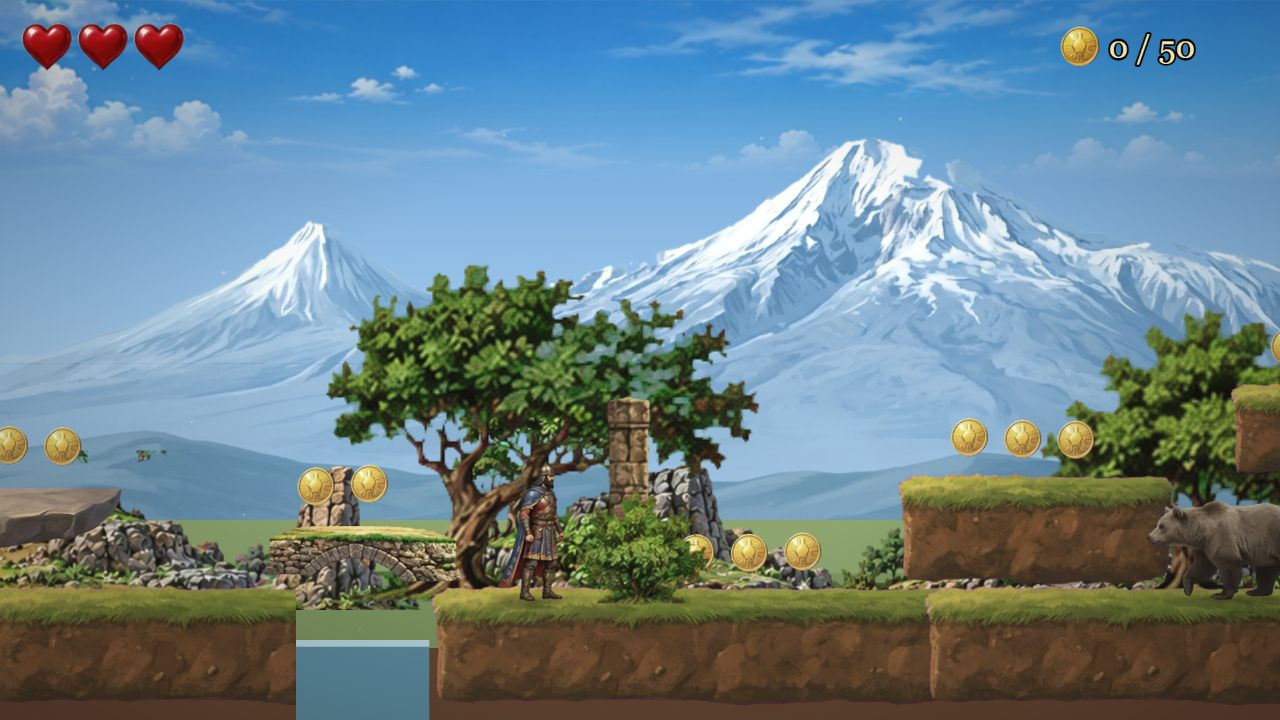
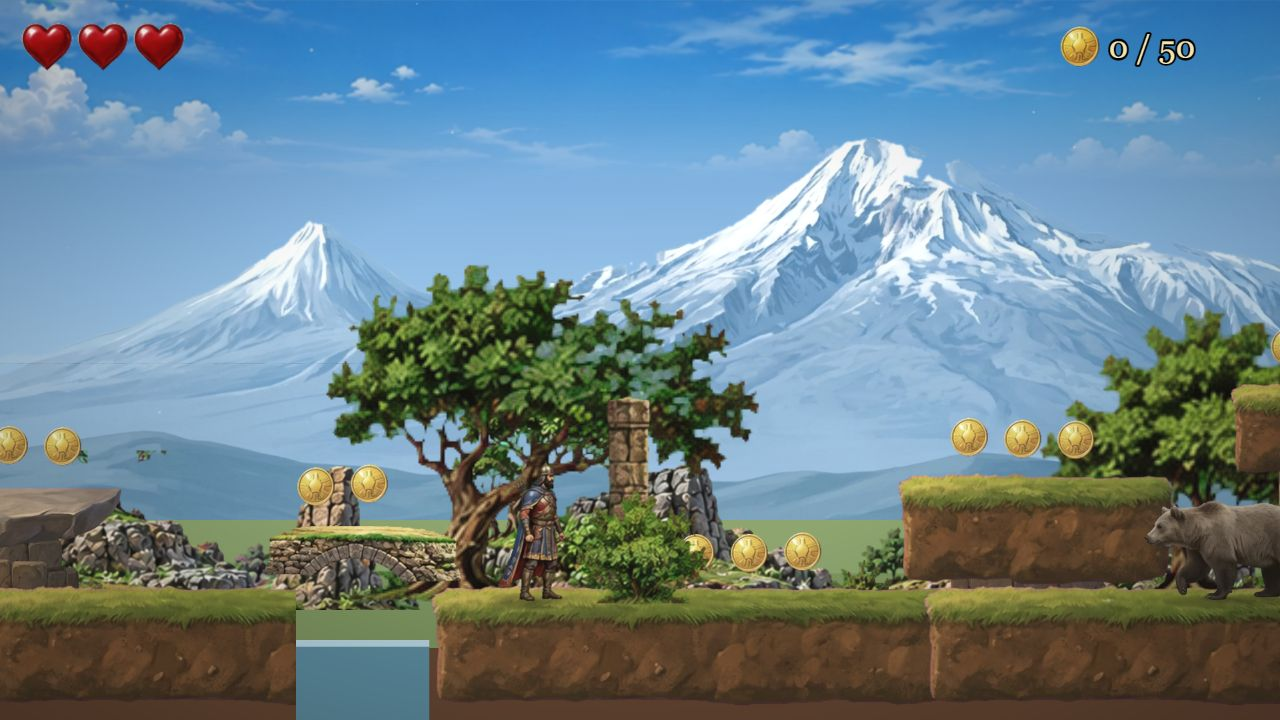
Лучник из листа анимации; опоры под платформами на уровнях 2–4

Changed region(s): [[0.9062, 0.7028, 1.0, 0.825], [0.0, 0.7333, 0.0625, 0.825], [0.75, 0.7944, 0.875, 0.825]]

diff --git a/src/scenes/Game.js b/src/scenes/Game.js
@@ -176,7 +176,7 @@ export default class Game extends Phaser.Scene {
       const im = this.add.image(p.x, p.y, a.tex).setOrigin(0, a.top).setScale(p.w / src.width).setDepth(p.d ?? 22)
         .setTint(p.ice ? 0xcfe6ff : p.crumble ? art.crumbleTint ?? 0xc9b89a : art.tint ?? 0xffffff).setFlipX(!!p.flip);
       vis.push(im);
-      if (art.support && !p.solid && !p.crumble) this.addSupport(p, a, src);
+      if (art.support && !p.solid && !a.noSupport) this.addSupport(p, a, src);
       if (art.snow && !a.noSnow) vis.push(this.addSnow(p.x + inset, p.y, p.w - inset * 2, 23));
       if (p.ice) vis.push(this.add.rectangle(p.x + inset, p.y - 3, p.w - inset * 2, 12, 0xd8f0ff, 0.8).setOrigin(0).setDepth(23));
     }
@@ -185,19 +185,32 @@ export default class Game extends Phaser.Scene {
     for (const v of vis) v.homeY = v.y;
   }
 
-  // Опоры под платформой, чтобы она не висела в воздухе: стена или столбы от платформы до земли
+  // Опоры под платформой, чтобы она не висела в воздухе: стена, столбы или скала от платформы до земли
   // (над ямой — до самого низа). Это только украшение, герой проходит перед ними.
   addSupport(p, a, src) {
     const sup = this.art.support;
-    const top = p.y + src.height * (p.w / src.width) * (1 - a.top) - 8;
-    const cols = a.legs ? [[p.x + p.w * 0.02, p.w * 0.26], [p.x + p.w * 0.72, p.w * 0.26]] : [[p.x + p.w * 0.1, p.w * 0.8]];
-    const tw = this.textures.get(sup.tex).getSourceImage().width;
+    const top = p.y + src.height * (p.w / src.width) * (1 - a.top) * (sup.under ?? 1) - 8;
+    const f = p.crumble ? (sup.width ?? 0.8) * 0.7 : sup.width ?? 0.8;
+    const cols = a.legs ? [[p.x + p.w * 0.02, p.w * 0.26], [p.x + p.w * 0.72, p.w * 0.26]] : [[p.x + (p.w * (1 - f)) / 2, p.w * f]];
+    const img = this.textures.get(sup.tex).getSourceImage();
+    const tint = sup.tint ?? 0xffffff;
     for (const [x, w] of cols) {
       const mid = x + w / 2;
-      const g = this.level.ground.find((s) => mid >= s.x && mid <= s.x + s.w);
-      const bottom = g ? g.y + 12 : BOTTOM;
+      const ground = this.level.ground.find((s) => mid >= s.x && mid <= s.x + s.w);
+      const bottom = ground ? ground.y + 12 : BOTTOM;
       if (bottom - top < 10) continue;
-      this.add.tileSprite(x, top, w, bottom - top, sup.tex).setOrigin(0).setDepth(14).setTint(sup.tint ?? 0xffffff).setTileScale(w / tw);
+      if (sup.mode === 'stack') {
+        // скала: куски камня один под другим внахлёст
+        const sx = w / img.width;
+        const sy = sx * (sup.stretch ?? 1);
+        const h = img.height * sy;
+        for (let y = top - h * 0.15; y < bottom; y += h * 0.55) {
+          this.add.image(x, y, sup.tex).setOrigin(0).setScale(sx, sy).setDepth(14).setTint(tint);
+        }
+      } else {
+        // кладка: картинка повторяется сверху вниз
+        this.add.tileSprite(x, top, w, bottom - top, sup.tex).setOrigin(0).setDepth(14).setTint(tint).setTileScale(w / img.width);
+      }
     }
   }
 

diff --git a/src/entities/Enemy.js b/src/entities/Enemy.js
@@ -12,8 +12,8 @@ const LOOK = {
     tex: 'spearman', faces: -1, cx: 0.68, bw: 0.34, bh: 0.86,
     sheet: 'spearman-walk', sw: 0.3, sh: 0.86, attack: 'spearman-attack', death: 'spearman-death',
   },
-  // лучник — временная картинка: старый копейщик без копья и с луком, нарисованным кодом (см. Boot.makeArcher)
-  archer: { tex: 'archer', faces: -1, cx: 0.68, bw: 0.34, bh: 0.86 },
+  // лучник берётся из листа archer-shoot; запасная картинка — старый копейщик с луком, нарисованным кодом (Boot.makeArcher)
+  archer: { tex: 'archer', faces: -1, cx: 0.68, bw: 0.34, bh: 0.86, sheet: 'archer-shoot', sw: 0.3, sh: 0.86 },
   wolf: { tex: 'wolf-1', faces: 1, cx: 0.5, bw: 0.62, bh: 0.9, sheet: 'wolf-run', sw: 1.0, sh: 0.8 },
   boar: { tex: 'boar', faces: 1, cx: 0.5, bw: 0.66, bh: 0.9, sheet: 'boar-run', sw: 1.0, sh: 0.8 },
   bear: { tex: 'bear', faces: 1, cx: 0.5, bw: 0.66, bh: 0.8, sheet: 'bear-walk', sw: 1.0, sh: 0.85 },
@@ -45,6 +45,7 @@ export default class Enemy extends Phaser.Physics.Arcade.Sprite {
     this.state = 'patrol';
     this.timer = 0;
     this.nextShot = scene.time.now + 800 + (d.x % 700);
+    this.shotUntil = 0;
     this.lean = 0;
     this.seed = d.x * 0.013;
     this.dead = false;
@@ -174,6 +175,7 @@ export default class Enemy extends Phaser.Physics.Arcade.Sprite {
           if (time > this.timer) {
             this.state = 'patrol';
             this.nextShot = time + c.reloadMs;
+            this.shotUntil = time + 350;
             this.setTint(this.baseTint);
             this.fireAt(player);
           }
@@ -242,6 +244,14 @@ export default class Enemy extends Phaser.Physics.Arcade.Sprite {
   // какой кадр показывать врагу с листами анимации
   pose(moving, time) {
     const L = this.look;
+    if (this.type === 'archer') {
+      // лук опущен → поднимает → натянул → выпустил стрелу
+      let f = 0;
+      if (this.state === 'aim') f = this.timer - time > this.cfg.aimMs * 0.55 ? 1 : 2;
+      else if (time < this.shotUntil) f = 3;
+      this.setFrame(f);
+      return;
+    }
     if (this.hasAttack) {
       const st = this.state;
       if (st === 'windup') {
@@ -273,8 +283,8 @@ export default class Enemy extends Phaser.Physics.Arcade.Sprite {
 
   fireAt(player) {
     const c = this.cfg;
-    const sx = this.x + this.dir * 30;
-    const sy = this.y - this.displayHeight * 0.62;
+    const sx = this.x + this.dir * 55;
+    const sy = this.y - this.cfg.height * 0.66;
     const dx = player.x - sx;
     const dy = player.y - 95 - sy;
     const t = Phaser.Math.Clamp(Math.abs(dx) / c.arrowSpeed, 0.35, 1.6);

diff --git a/src/atmosphere/index.js b/src/atmosphere/index.js
@@ -22,11 +22,11 @@ function numbered(prefix, dir, n, name = 'platform') {
 const HAYOTS_PLATS = {
   h1: { tex: 'h-plat-01', top: 0.05 },
   h2: { tex: 'h-plat-02', top: 0.2, inset: 0.06 },
-  h3: { tex: 'h-plat-03', top: 0.34, noSnow: true, surface: 'wood' },
+  h3: { tex: 'h-plat-03', top: 0.34, noSnow: true, surface: 'wood', noSupport: true },
   h5: { tex: 'h-plat-05', top: 0.2, inset: 0.05 },
   h6: { tex: 'h-plat-06', top: 0.2, inset: 0.05 },
   h7: { tex: 'h-plat-07', top: 0.05 },
-  h9: { tex: 'h-plat-09', top: 0.05, noSnow: true, surface: 'wood' },
+  h9: { tex: 'h-plat-09', top: 0.05, noSnow: true, surface: 'wood', noSupport: true },
 };
 
 const ARARAT_PROPS = [
@@ -99,6 +99,8 @@ export const ATMOSPHERE = {
       tint: 0xb4c8f0,
       crumbleTint: 0xd8c8b8,
       snow: true,
+      // под каждым уступом — скальный столб (mode: 'stack' — куски камня внахлёст)
+      support: { tex: 'h-plat-12', mode: 'stack', stretch: 2.6, width: 0.6, under: 0.5, tint: 0x8498c0 },
       ground: { tex: 'h-plat-12', top: 0.06, scale: 1.5, fill: 0x161d2c, overlap: 0.03 },
       plats: HAYOTS_PLATS,
     },
@@ -130,6 +132,8 @@ export const ATMOSPHERE = {
     particles: [{ type: 'pollen' }],
     art: {
       propTint: 0xd4d2be,
+      // под каждой платформой — опора из каменной кладки
+      support: { tex: 'a-pt-10', mode: 'stack', stretch: 1.3, width: 0.62, under: 0.6, tint: 0xb4b0a0 },
       ground: { tex: 'a-pt-01', top: 0.13, scale: 1.5, fill: 0x5b3722, overlap: 0.08 },
       plats: {
         p4: { tex: 'a-pt-04', top: 0.13 },
@@ -138,8 +142,8 @@ export const ATMOSPHERE = {
         p12: { tex: 'a-pt-12', top: 0.13 },
         s11: { tex: 'a-pt-11', top: 0.1, surface: 'stone' },
         r2: { tex: 'a-pt-02', top: 0.08, surface: 'stone' },
-        arch: { tex: 'a-arch', top: 0.16, surface: 'stone' },
-        bridge: { tex: 'a-bridge', top: 0.5, inset: 0.06, surface: 'stone' },
+        arch: { tex: 'a-arch', top: 0.16, surface: 'stone', noSupport: true },
+        bridge: { tex: 'a-bridge', top: 0.5, inset: 0.06, surface: 'stone', noSupport: true },
       },
     },
   },
@@ -168,6 +172,7 @@ export const ATMOSPHERE = {
     art: {
       tint: 0xdfe4ee,
       propTint: 0xb8bcc4,
+      support: { tex: 'h-plat-12', mode: 'stack', stretch: 2.6, width: 0.6, under: 0.5, tint: 0xa0a6b2 },
       ground: { tex: 'h-plat-12', top: 0.06, scale: 1.5, fill: 0x161a22, overlap: 0.03 },
       plats: HAYOTS_PLATS,
     },

diff --git a/src/sprites.js b/src/sprites.js
@@ -23,6 +23,8 @@ export const SHEETS = {
   'spearman-attack': { file: 'enemies/spearman-attack.webp', rows: 2, frames: 4, faces: 1, tol: 30, heightFrame: 0, groundLine: true },
   // падение копейщика: 4 кадра от удара до лежащего тела
   'spearman-death': { file: 'enemies/spearman-death.webp', rows: 2, frames: 4, faces: 1, tol: 30, heightFrame: 0, heightMul: 1.08, groundLine: true },
+  // лучник: 0 — лук опущен, 1 — поднимает лук, 2 — тетива натянута, 3 — стрела выпущена
+  'archer-shoot': { file: 'enemies/archer-shoot.webp', rows: 2, frames: 4, faces: 1, tol: 30, heightFrame: 0 },
   'wolf-run': {
     file: 'enemies/wolf-run.webp', rows: 4, frames: 12, faces: 1, tol: 24,
     anims: { 'wolf-run': { frames: [0, 1, 2, 3, 4, 5, 6, 7, 8, 9, 10, 11], fps: 12 } },

diff --git a/CLAUDE.md b/CLAUDE.md
@@ -88,13 +88,13 @@
 - Айк: бег, прыжок (coyote time, буфер, переменная высота), лук с зарядом (X)
 - Здоровье (3 сердца), чекпоинты, монеты (сердце за каждые 50, счёт переносится между уровнями), экран проигрыша
 - Яркие спрайты приглушаются кодом при запуске (`STYLE` в `src/config.js`); на обваливающихся плитах трещины
-- Враги: копейщик, лучник (перекрашенный копейщик), волк, кабан, медведь, олень; ловушки
+- Враги: копейщик, лучник, волк, кабан, медведь, олень (у всех есть листы анимации); ловушки
 - Уровень 1 Вавилон, уровень 2 Путь на север (ветер, лёд, обвалы), уровень 3 Страна Арарат, уровень 4 Айоц-Дзор с боссом Белом
 - Атмосфера каждого уровня: параллакс, подкраска, частицы, виньетка, факелы, молнии
 - Три языка: русский, английский, армянский. Все тексты лежат в `src/i18n.js`. При первом запуске показывается экран выбора языка (`src/scenes/Lang.js`), потом язык меняется в «Настройках» меню. Новый текст добавлять сразу во все три языка
 - Чекпоинты невидимы (флажков нет): место просто запоминается, когда герой проходит мимо
-- В Вавилоне под каждой платформой кодом рисуется опора — стена или столбы до земли (`support` в `src/atmosphere/index.js`)
-- Лучник — временная картинка: `spearman.png` без копья и с луком, нарисованным кодом (`Boot.makeArcher`). Нужен настоящий лист лучника
+- Под каждой платформой на всех уровнях кодом рисуется опора до земли, чтобы платформы не висели в воздухе (`support` в `src/atmosphere/index.js`): в Вавилоне — кирпичная стена или столбы, на уровнях 2 и 4 — скальный столб, на уровне 3 — каменная кладка. Деревянные помосты, арка и верёвочный мост стоят без опор
+- Лучник берётся из листа `public/assets/enemies/archer-shoot.webp` (4 кадра: лук опущен, поднимает, натянул, выпустил стрелу). Старая заготовка — `spearman.png` с луком, нарисованным кодом (`Boot.makeArcher`) — осталась как запасная
 - Временный звук, собранный кодом (`src/audio/Sfx.js`); настоящая музыка есть только в меню
 
 Команды проверки:
